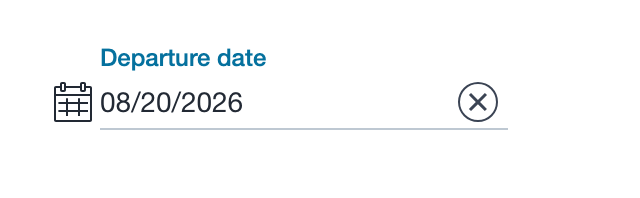
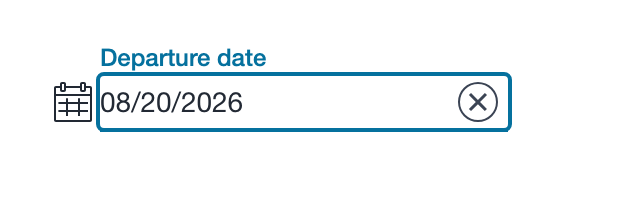
Fix the focus screenshot and guard against duplicates
field-focused.png was a byte-identical copy of field-filled.png, so the README
row captioned "Keyboard focus — a visible ring" showed a field with no ring at
all. react-datepicker's Escape handler blurs the input, and the capture pressed
Escape to dismiss the calendar before taking the shot, which removed the very
state being illustrated.

The focus shot now uses a dedicated target with `preventOpenOnFocus`, so the
ring is captured without the calendar bleeding into frame.

The generator now hashes every image and fails if any two are identical.
Captures coming out the same means an interaction had no effect on the
rendered UI, which is exactly how the wrong image shipped; that should be a
build failure rather than something to notice by eye.

Changed region(s): [[0.125, 0.3636, 0.8125, 0.6667]]

diff --git a/demo/src/screenshots.tsx b/demo/src/screenshots.tsx
@@ -71,6 +71,21 @@ function Screenshots() {
         />
       </Shot>
 
+      {/*
+        `preventOpenOnFocus` keeps the calendar shut so the focus-ring capture
+        is not polluted by the popper opening underneath it. The field's
+        focused appearance is identical either way.
+      */}
+      <Shot name="focused">
+        <DatePicker
+          label="Departure date"
+          onChange={setWithValue}
+          preventOpenOnFocus
+          selected={withValue}
+          showClearButton
+        />
+      </Shot>
+
       <Shot name="instruction">
         <DatePicker
           instruction="Bookings open 30 days ahead"
